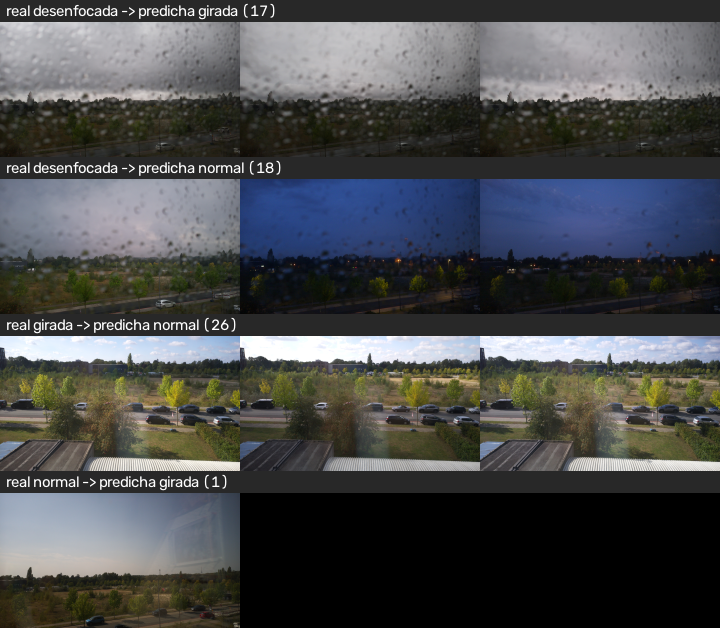
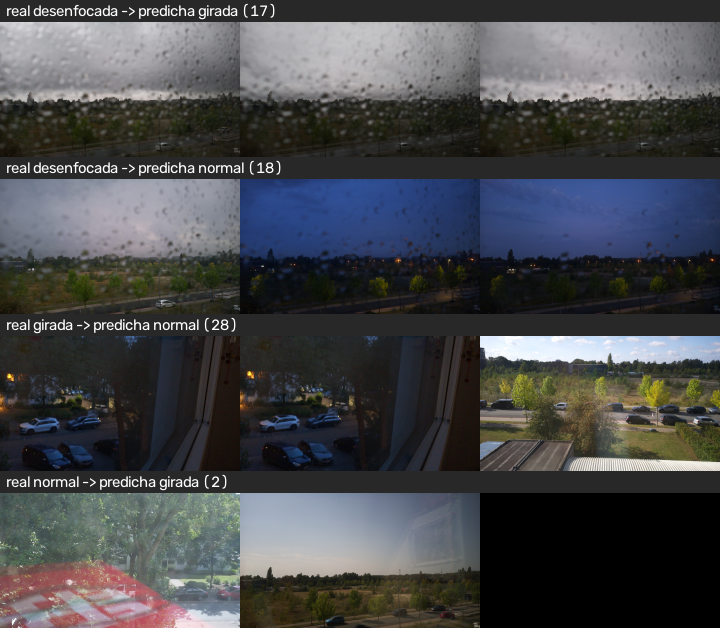
fix(clasico): report the angle as decisive descriptor for girada to normal errors

diff --git a/tests/test_error_analysis.py b/tests/test_error_analysis.py
@@ -22,11 +22,11 @@ def test_summary_counts_errors_by_pair_and_rule():
             "label": ["girada", "girada", "normal"],
             "pred": ["normal", "normal", "girada"],
             "regla": ["coincide_y_giro_dentro_del_limite"] * 2 + ["coincide_pero_giro_grande"],
-            "descriptor_decisivo": ["orb_matches", "orb_matches", "angle"],
+            "descriptor_decisivo": ["angle", "angle", "angle"],
         }
     )
     out = E.summary(errors)
-    girada = out[(out["label"] == "girada") & (out["descriptor_decisivo"] == "orb_matches")]
+    girada = out[(out["label"] == "girada") & (out["descriptor_decisivo"] == "angle")]
     assert int(girada["n"].iloc[0]) == 2
     assert int(out["n"].sum()) == 3
 
@@ -36,13 +36,14 @@ def test_summary_of_no_errors_is_empty():
     assert E.summary(empty).empty
 
 
-def test_girada_predicted_normal_is_explained_by_matches_not_by_skin_ratio():
-    # Small rotation (0.37 < 0.94) and enough matches: the tree decided normal by the matches rule.
-    rule = E.decisive_rule(_image(label="girada", angle=0.37, orb_matches=30.0), T)
+def test_girada_predicted_normal_is_explained_by_angle_not_by_skin_ratio():
+    # Matches are fine (30 >= 12.5); what fails is the rotation: 0.5 deg is under angle_max (0.94),
+    # so the tree accepts it as the same view. The negative margin is how far it fell short.
+    rule = E.decisive_rule(_image(label="girada", angle=0.5, orb_matches=30.0), T)
     assert rule["regla"] == "coincide_y_giro_dentro_del_limite"
-    assert rule["descriptor_decisivo"] == "orb_matches"
+    assert rule["descriptor_decisivo"] == "angle"
     assert rule["resultado"] == "normal"
-    assert rule["margen"] == 17.5
+    assert rule["margen"] == round(0.5 - 0.94, 3)
 
 
 def test_large_rotation_is_explained_by_angle():
@@ -83,4 +84,4 @@ def test_analyse_lists_only_errors_with_the_rule_that_decided_them():
     )
     errors = E.analyse(table, T, "test")
     assert list(errors["path"]) == ["a.jpg"]
-    assert errors["descriptor_decisivo"].iloc[0] == "orb_matches"
+    assert errors["descriptor_decisivo"].iloc[0] == "angle"

diff --git a/src/error_analysis.py b/src/error_analysis.py
@@ -49,7 +49,7 @@ def decisive_rule(row: pd.Series, t: classic.Thresholds) -> dict:
             return _rule("coincide_sin_angulo_fiable", "girada", "angle", np.nan, t.angle_max)
         if angle > t.angle_max:
             return _rule("coincide_pero_giro_grande", "girada", "angle", angle, t.angle_max)
-        return _rule("coincide_y_giro_dentro_del_limite", "normal", "orb_matches", matches, t.match_min)
+        return _rule("coincide_y_giro_dentro_del_limite", "normal", "angle", angle, t.angle_max)
     lap = float(row["lap_var"])
     if lap >= t.blur_max:
         return _rule("sin_coincidencias_y_nitida", "girada", "lap_var", lap, t.blur_max)
